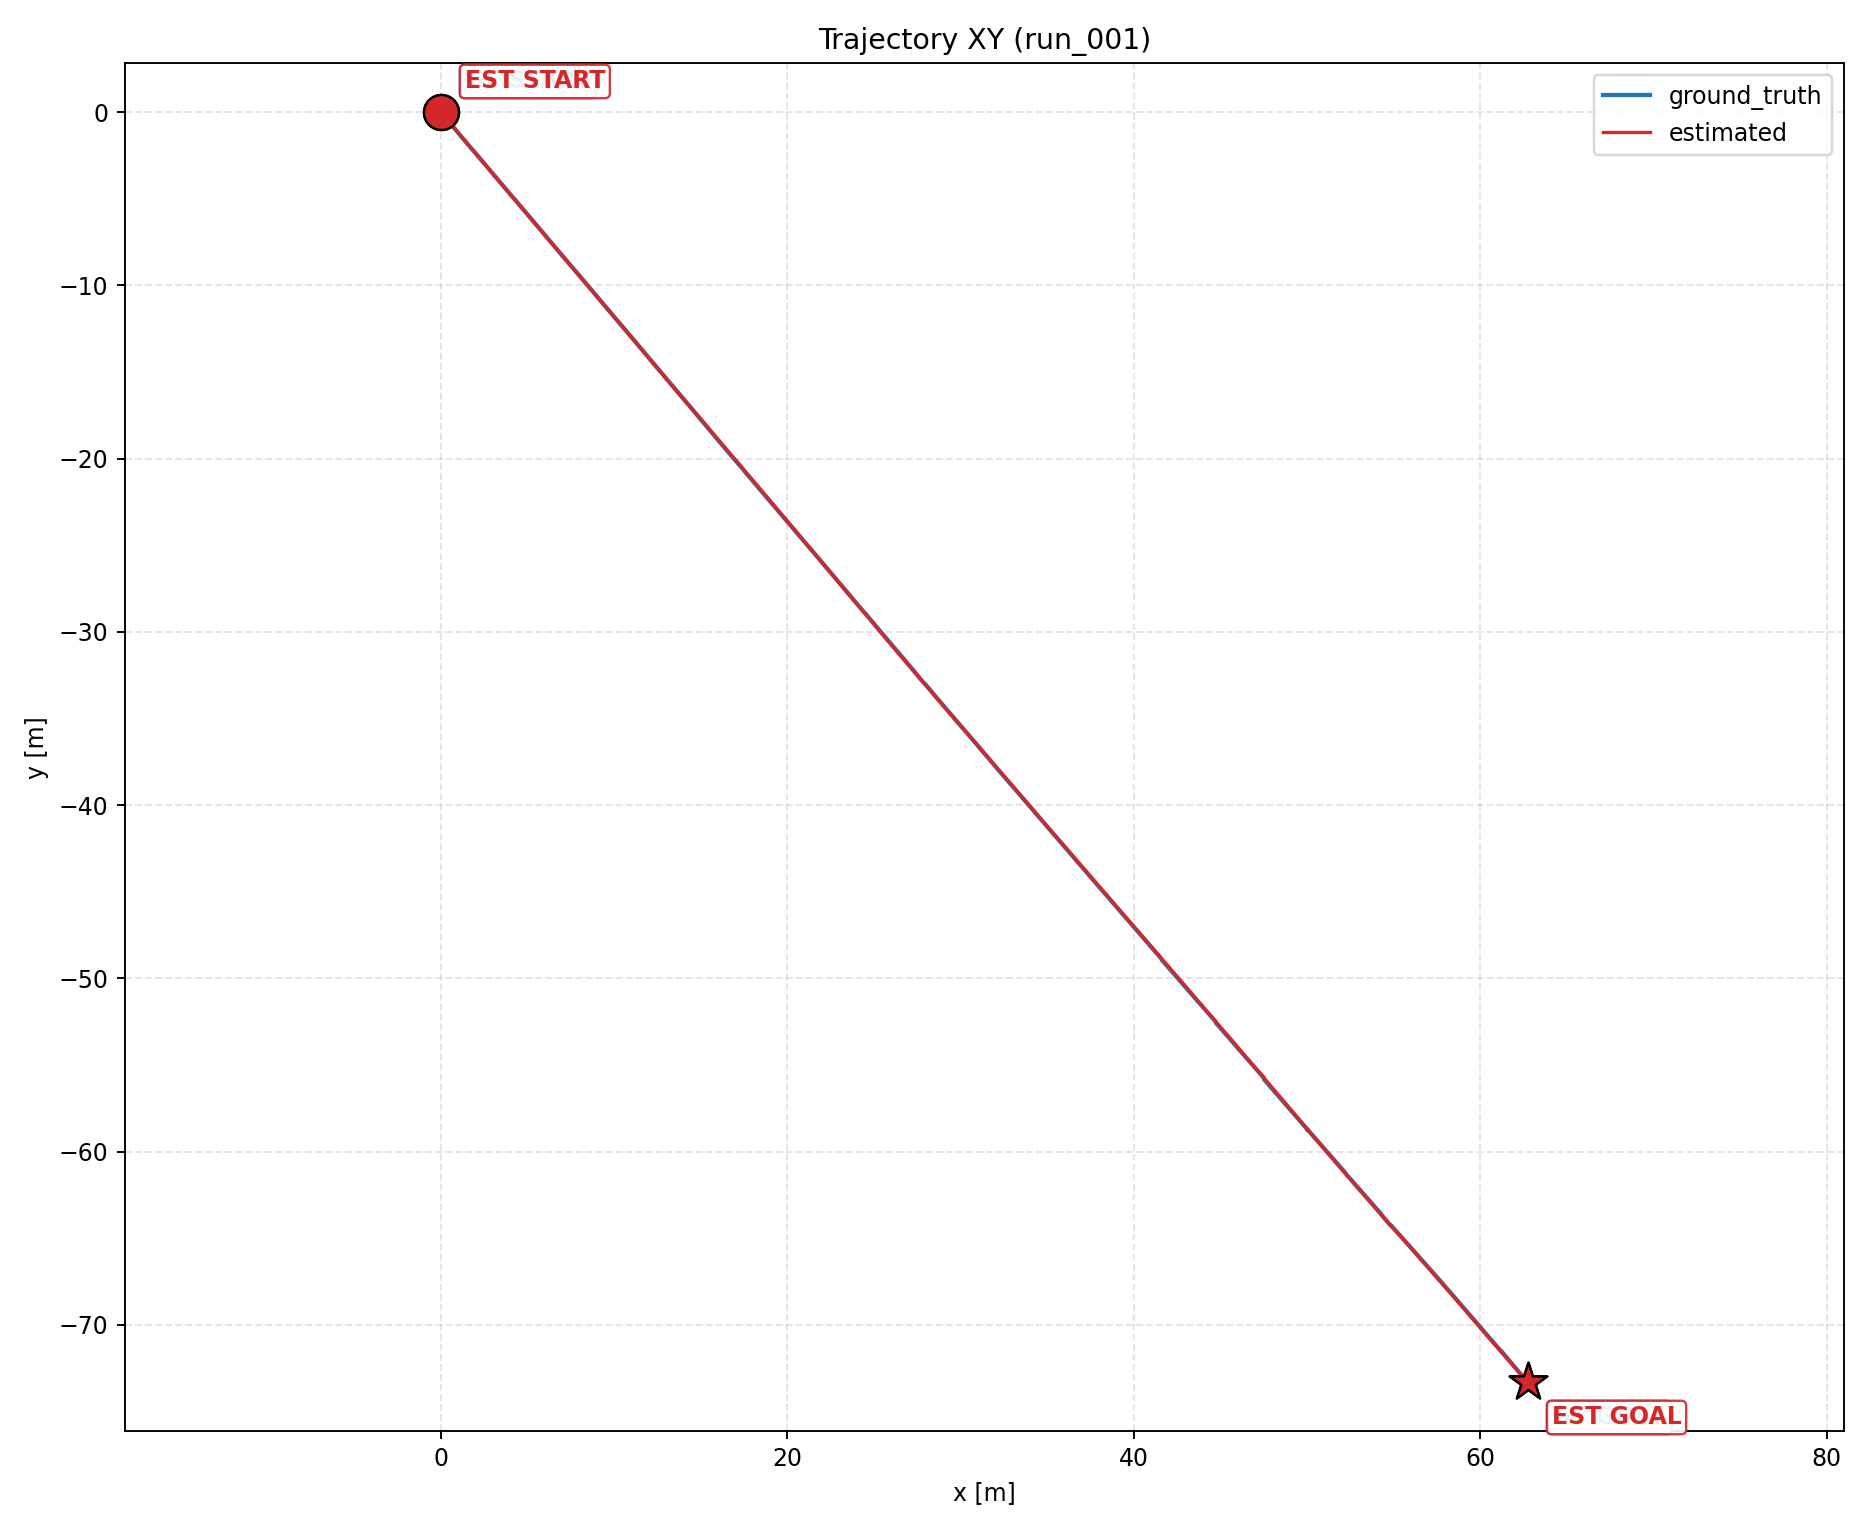
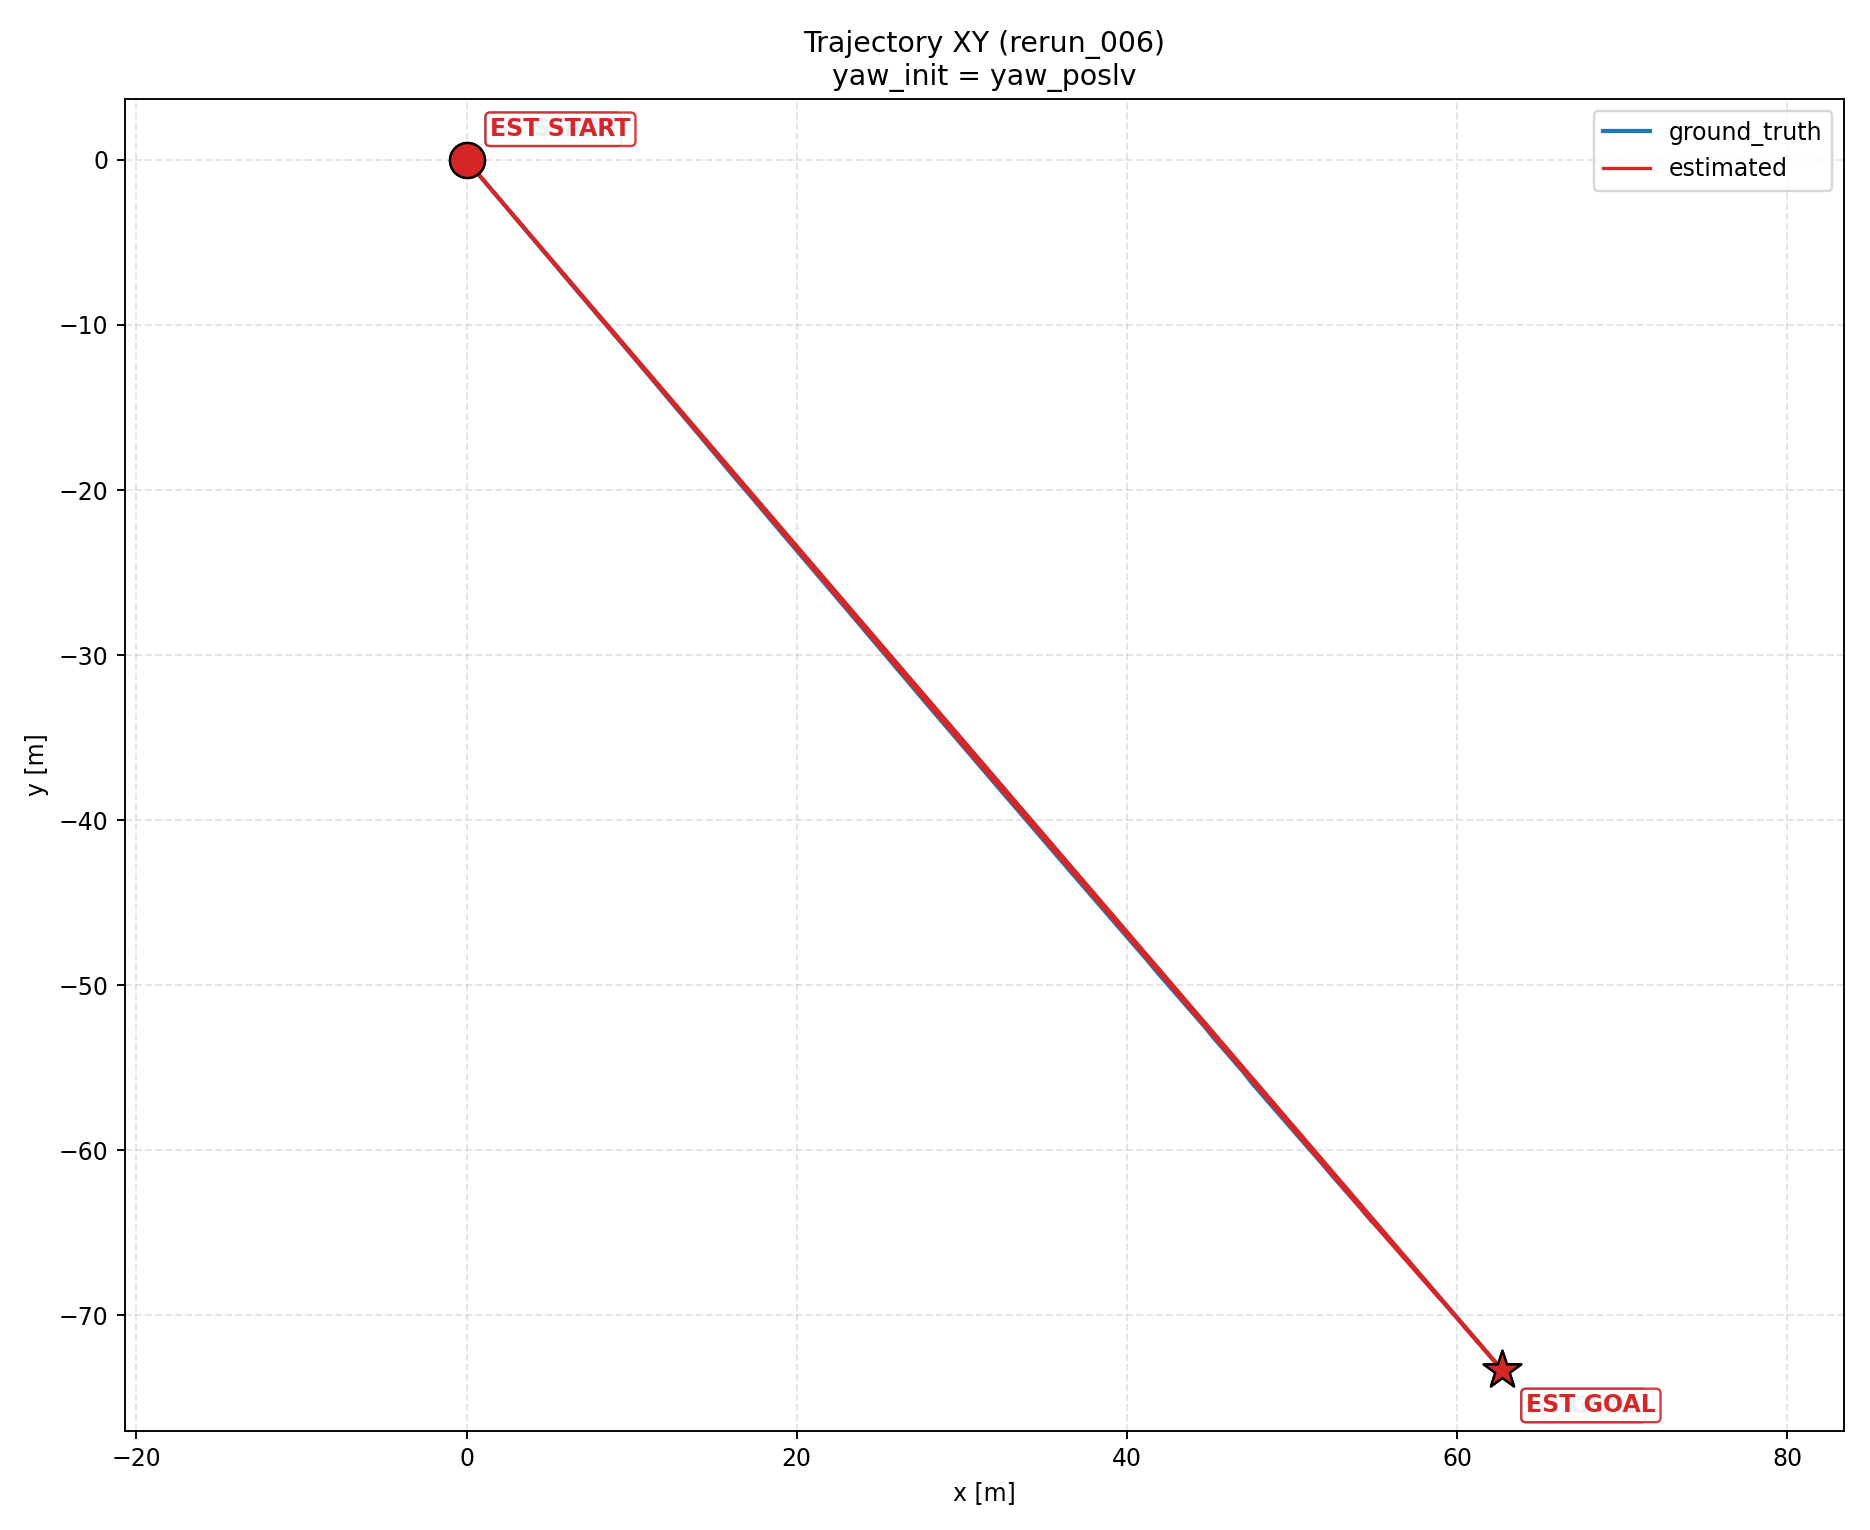
chore: refresh course-yaw results from gt-initial yaw rerun

diff --git a/docs/open_data_results.md b/docs/open_data_results.md
@@ -5,27 +5,27 @@
 Results here are generated from `run_open_data_sweep.py`/suite runs and stored in this repository so they can be referenced from docs without re-running.
 
 - Snapshot date: 2026-02-18
-- Run source: `/tmp/kfl_istanbul_suite_course_yaw/...` and `/tmp/kfl_flat_ground_suite_20260217/...`
-  - (updated: `.../kfl_istanbul_suite_course_yaw_speedgated/...` also available in current artifacts)
+- Run source: `/tmp/kfl_istanbul_bag1_rerun_20260218/...`
 
 ### Course-yaw tuning case (GNSS course yaw enabled)
 
 | Metric | Value |
 | --- | --- |
-| RMSE 3D [m] | 0.06345 |
-| RMSE XY [m] | 0.03654 |
-| RMSE 3D (no bias) [m] | 0.05886 |
-| Bias Z [m] | -0.00077 |
-| Attitude angle RMSE [deg] | 2.86 |
-| Roll RMSE [deg] | 0.20 |
-| Pitch RMSE [deg] | 2.76 |
-| Yaw RMSE [deg] | 0.73 |
-| Best run id | `run_001` |
+| RMSE 3D [m] | 0.03423 |
+| RMSE XY [m] | 0.03312 |
+| RMSE 3D (no bias) [m] | 0.03262 |
+| Bias Z [m] | 0.00149 |
+| Attitude angle RMSE [deg] | 0.00870 |
+| Roll RMSE [deg] | 0.00561 |
+| Pitch RMSE [deg] | 0.00649 |
+| Yaw RMSE [deg] | 0.00131 |
+| Best run id | `rerun_006` |
 | Reference | `gt_quat` |
 
-**Best parameters (run_001)**  
-`use_flat_ground = true`, `use_imu_orientation = false`, `use_gnss_course_yaw = true`,  
-`var_gnss_course_yaw = 0.05`, `var_gnss_xy = 0.05`, `var_gnss_z = 0.1`, `var_imu_w = 0.005`, `var_imu_acc = 0.01`
+**Best parameters (rerun_006)**  
+`use_imu_orientation = true`, `use_imu_orientation_covariance = true`,  
+`var_imu_orientation_rpy = 0.001`, `var_imu_w = 0.005`, `var_imu_acc = 0.05`,  
+`var_gnss_xy = 0.05`, `var_gnss_z = 0.1`, `max_imu_dt_sec = 1.0`
 
 ![Course-yaw trajectory](results/open_data/istanbul_bag1_course_yaw/trajectory_xy.png)
 
